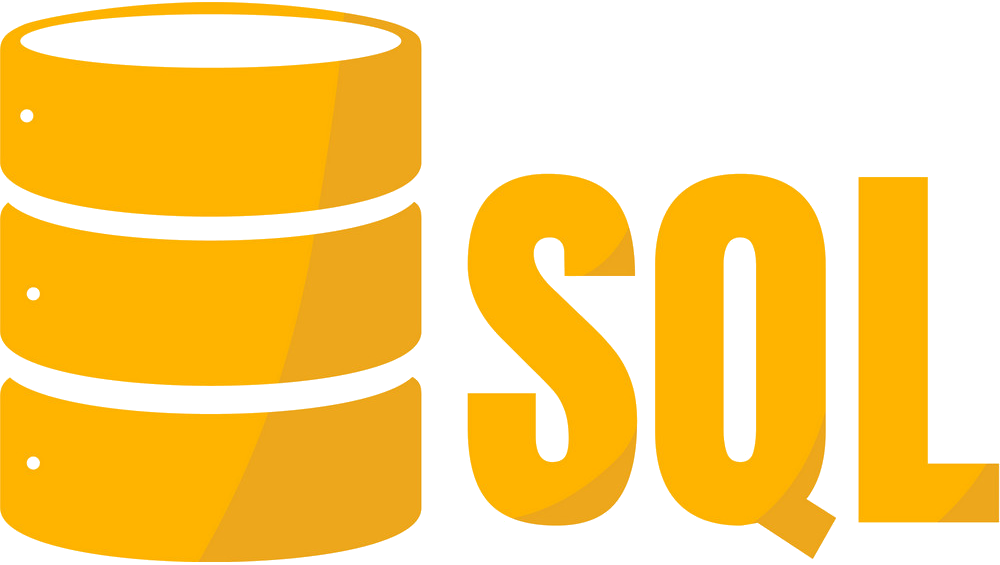
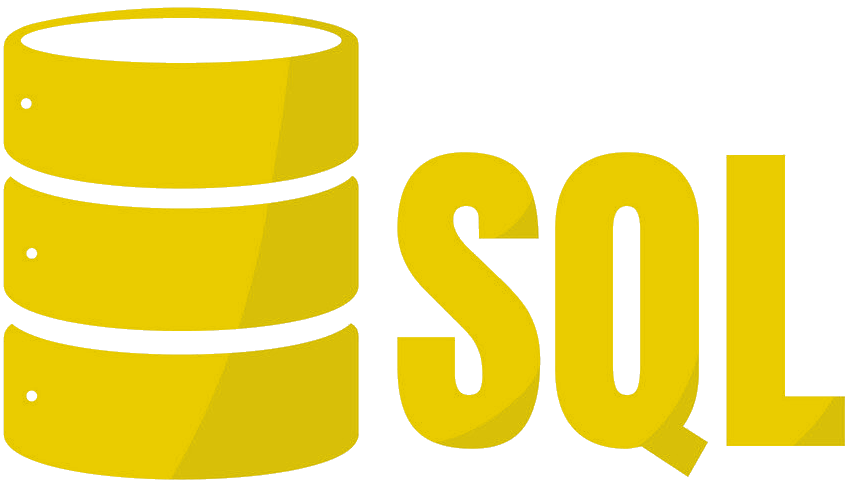
webp with fall back

diff --git a/index.html b/index.html
@@ -113,19 +113,35 @@
               <img src="assets/img/CSS3.svg" alt="CSS3 logo" class="height-100">
             </div>
             <div class="skills-logo padding-right-1-5em margin-vert-1em">
-              <img src="assets/img/js.webp" alt="Javascript logo" class="height-100">
+              <picture>
+                <source srcset="assets/img/js.webp" type="image/webp">
+                <source srcset="assets/img/js.png" type="image/jpeg">
+                <img src="assets/img/js.png"  class="height-100" alt="picture of us">
+              </picture>
             </div>
             <div class="skills-logo padding-right-1-5em margin-vert-1em">
               <img src="assets/img/node.svg" alt="Node JS logo" class="height-100">
             </div>
             <div class="skills-logo padding-right-1-5em margin-vert-1em">
-              <img src="assets/img/vue.webp" alt="Vue JS logo" class="height-100">
+              <picture>
+                <source srcset="assets/img/vue.webp" type="image/webp">
+                <source srcset="assets/img/vue.png" type="image/jpeg">
+                <img src="assets/img/vue.png"  class="height-100" alt="picture of us">
+              </picture>
             </div>
             <div class="skills-logo padding-right-1-5em margin-vert-1em">
-              <img src="assets/img/backbone.webp" alt="Backbone logo" class="height-100">
+              <picture>
+                <source srcset="assets/img/backbone.webp" type="image/webp">
+                <source srcset="assets/img/backbone.png" type="image/jpeg">
+                <img src="assets/img/backbone.png"  class="height-100" alt="picture of us">
+              </picture>
             </div>
             <div class="skills-logo padding-right-1-5em margin-vert-1em">
-              <img src="assets/img/sql.png" alt="SQL logo" class="height-100">
+              <picture>
+                <source srcset="assets/img/sql.webp" type="image/webp">
+                <source srcset="assets/img/sql.png" type="image/jpeg">
+                <img src="assets/img/sql.png"  class="height-100" alt="picture of us">
+              </picture>
             </div>
           </div>
           <div class="font-size-1-4em">Knowledgeable</div>
